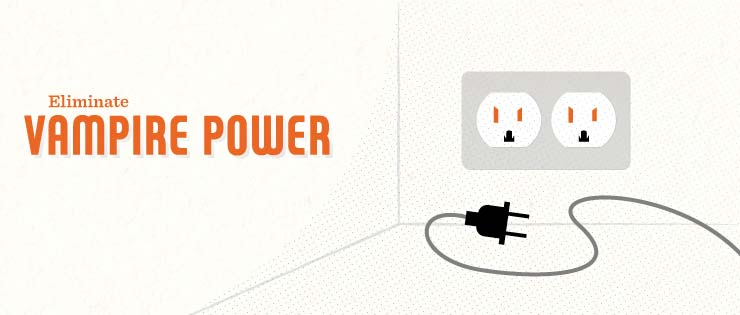
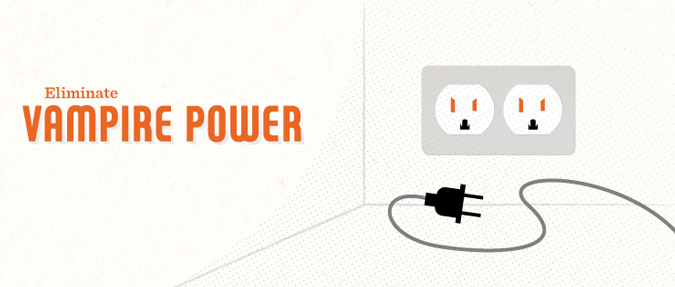
Resizing nugget and detail images so it's not done in HTML. Reducing compression on action detail images.

diff --git a/actions/templates/actions/action_detail.html b/actions/templates/actions/action_detail.html
@@ -11,7 +11,7 @@
     <div class="box_three_top"></div>
     <div class="box_three_middle">
         {% if action.has_illustration %}
-            <img src="{{ action.get_detail_illustration }}" alt="{{action.name}} illustration" width="675" height="290"/>
+            <img src="{{ action.get_detail_illustration }}" alt="{{action.name}} illustration" width="675" height="287"/>
         {% else %}
             <h1 id="action_title">{{action.name}}</h1>
         {% endif %}

diff --git a/actions/templates/actions/action_show.html b/actions/templates/actions/action_show.html
@@ -13,7 +13,7 @@
 {% block right_content %}
     <div class="box_three_top"></div>
     <div class="box_three_middle">
-        <img src="{% dated_static 'images/theme/actions.jpg' %}" alt="benefits" width="675" height="290"/>
+        <img src="{% dated_static 'images/theme/actions.jpg' %}" alt="benefits" width="675" height="287"/>
     </div>
     <div class="box_three_bottom"></div>
     
